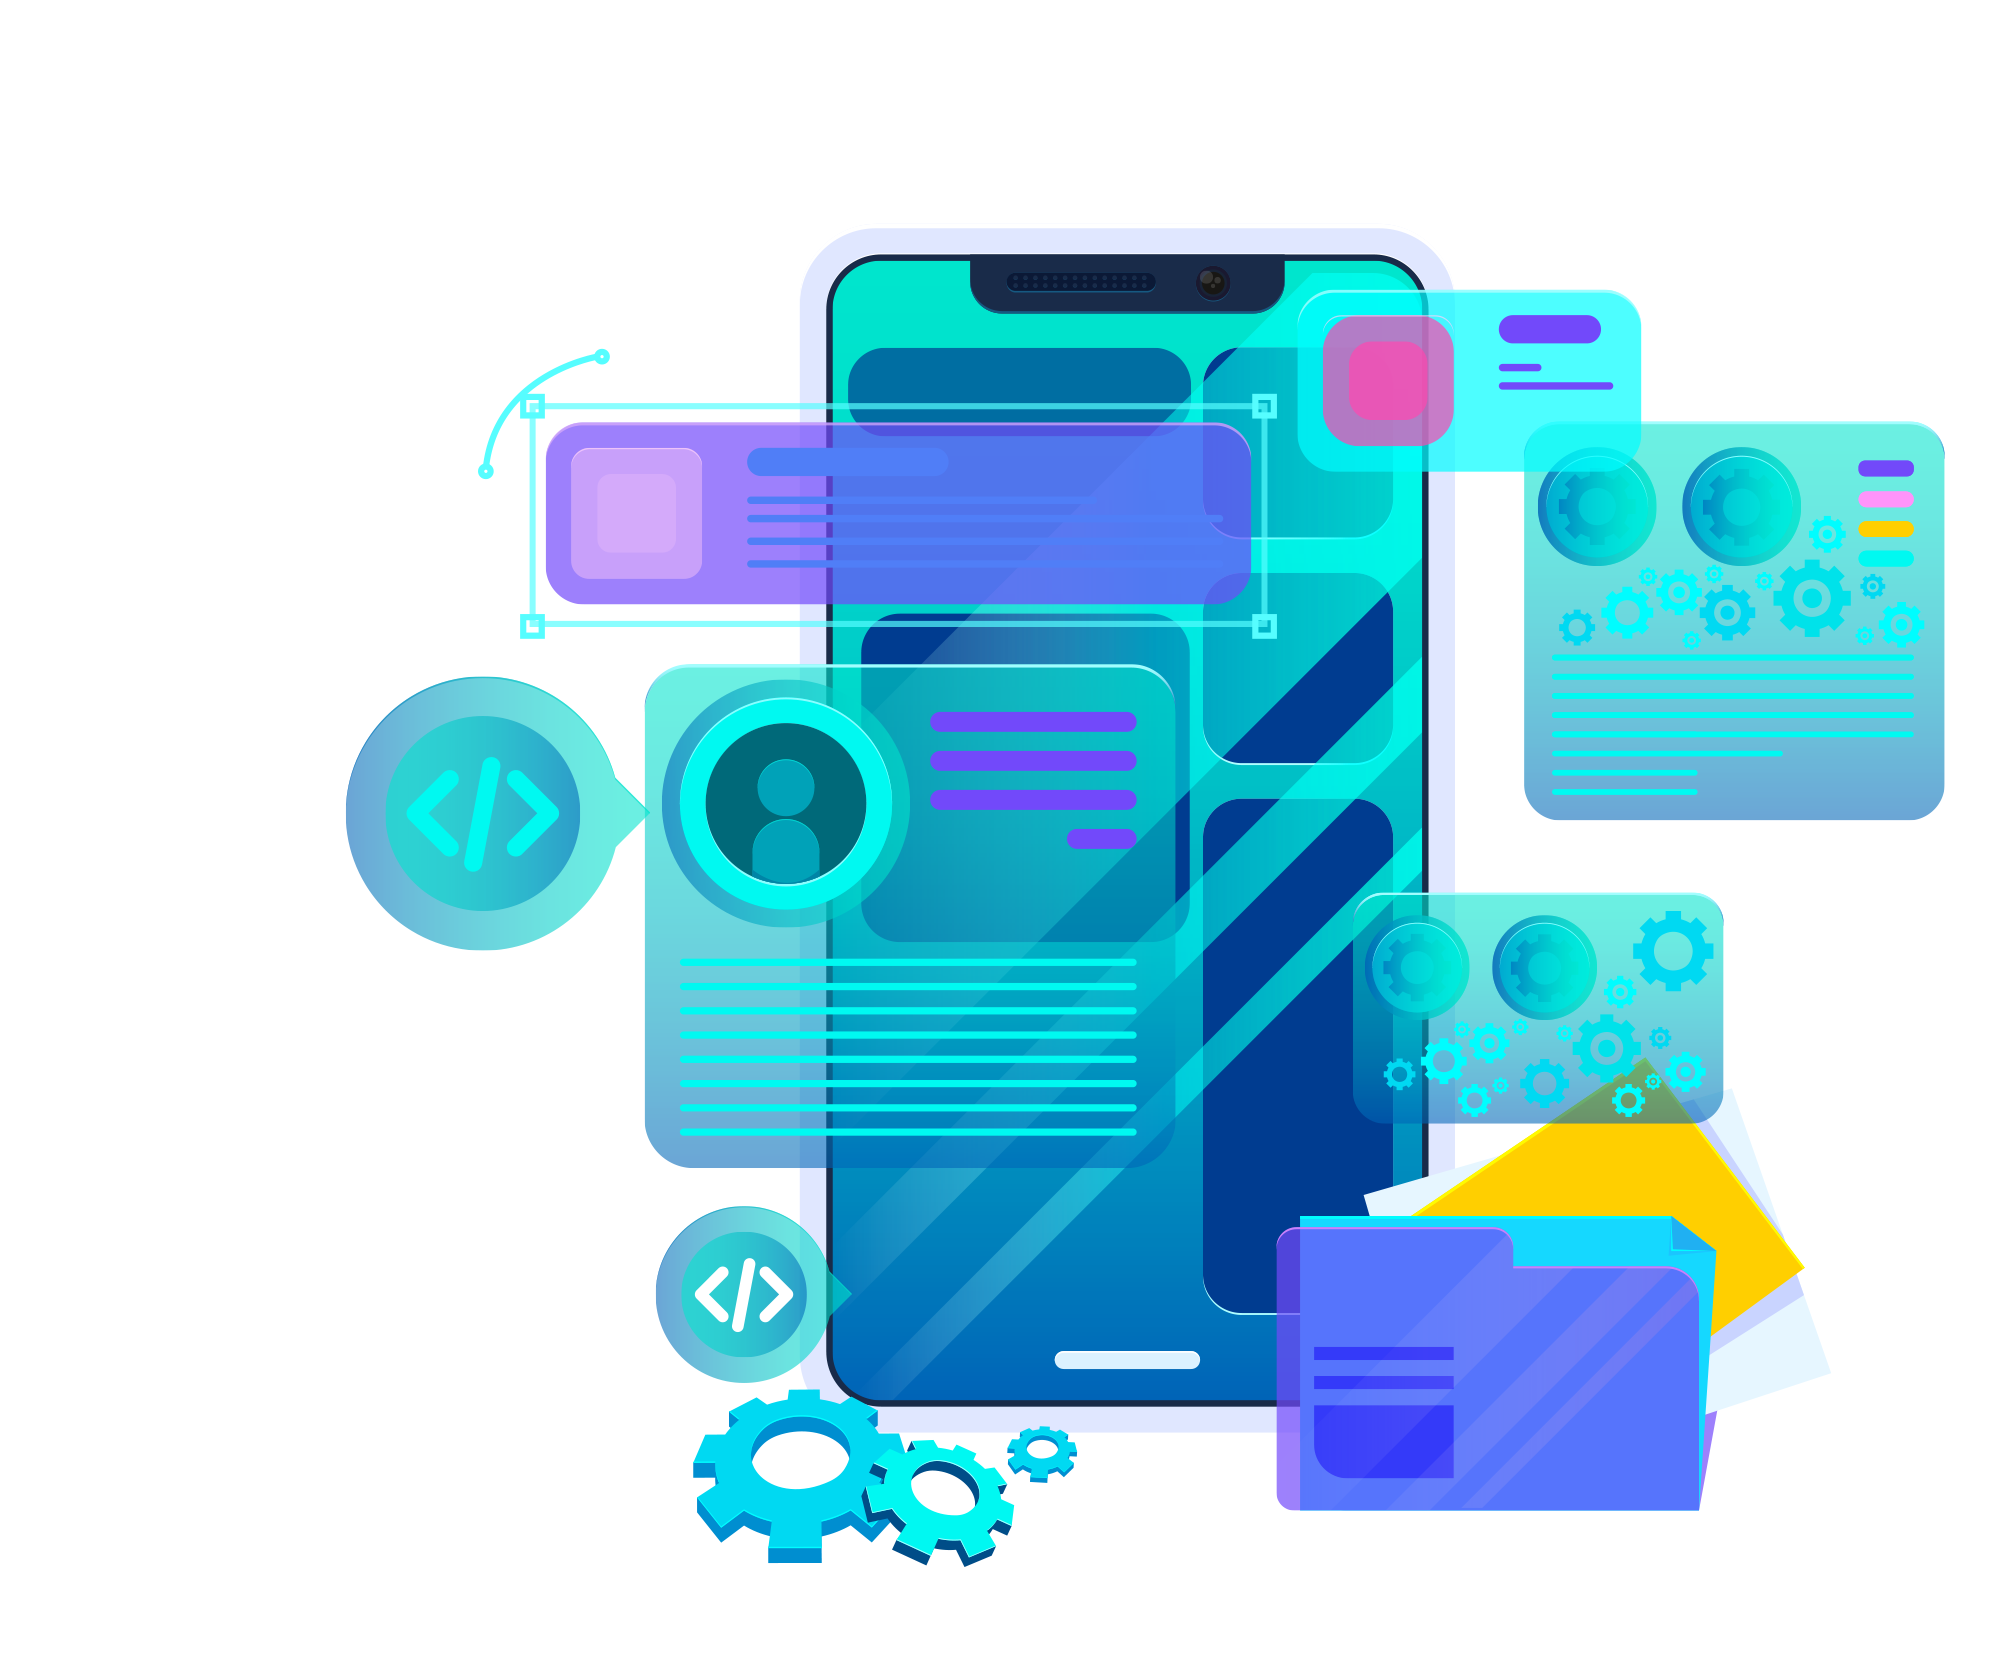
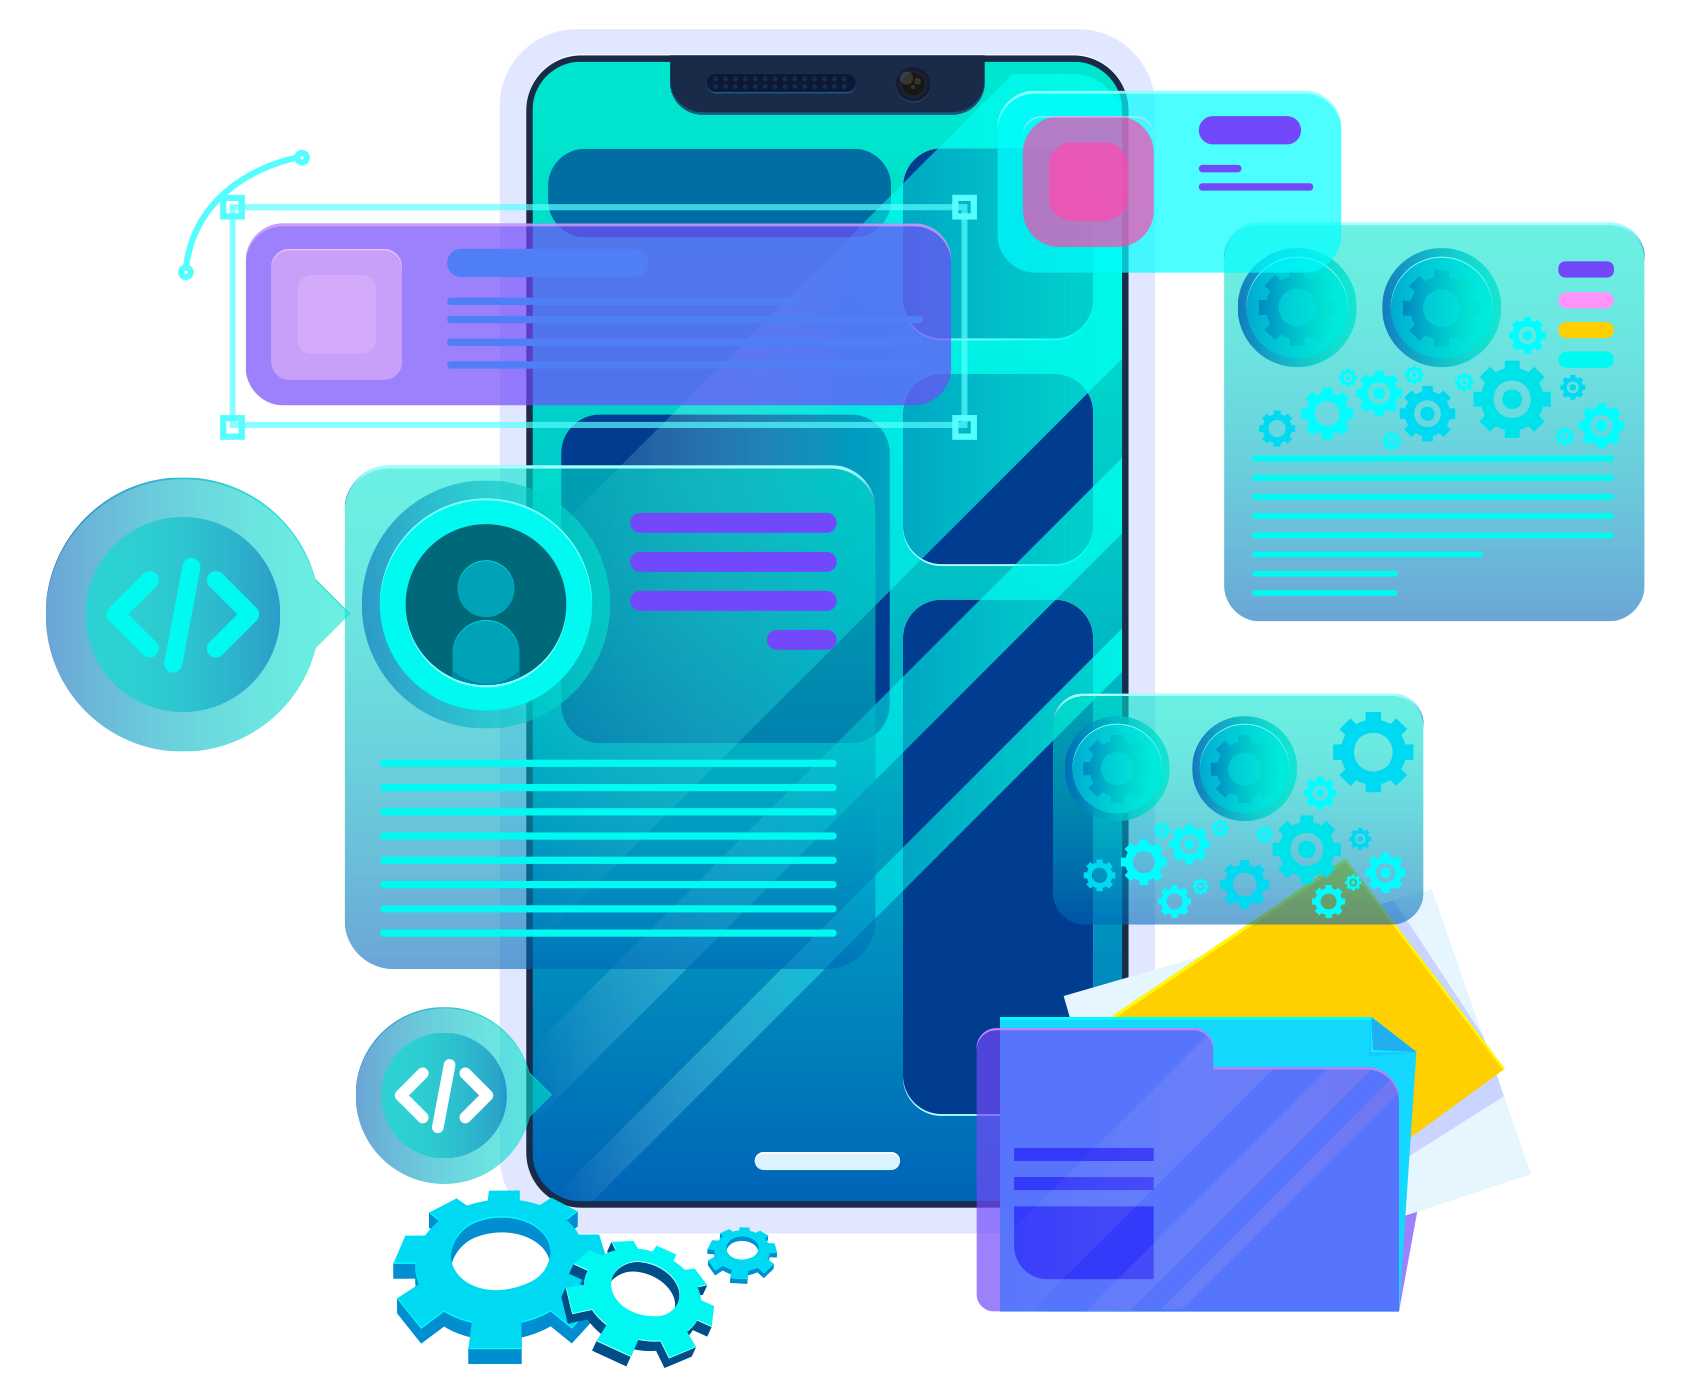
Add files via upload

diff --git a/index.html b/index.html
@@ -50,10 +50,14 @@
             </H1>
         
             <p>
-                Lorem ipsum, dolor sit amet consectetur adipisicing elit. Repellendus rem eos aliquid quo rerum
-                temporibus ipsum distinctio numquam ut omnis placeat, nam sint atque quos dolorem laborum? Rerum, esse
-                dolorem.
+                I'm Abdelrahman Yasser – a graphic designer and Android developer. I love turning creative ideas into user-friendly designs and bringing them to life in the Android world. Let's build something awesome together!
+
             </p>
+            <div class="socials2">
+                <a href="https://www.facebook.com/abdellrahman.yasser.94/" target="_blank"><i class="ri-facebook-line"></i></a>
+                <a href="https://www.linkedin.com/in/vbdoyasser/" target="_blank"><i class="ri-linkedin-line"></i></a>
+                <a href="https://github.com/AbdoYasser74 "target="_blank"><i class="ri-github-line"></i></a>
+            </div>
             <a href ="images/CV.pdf"Download class="btn">Download CV</a>
         </div>
         <div class="image">
@@ -176,9 +180,9 @@
                 Lorem ipsum dolor sit amet consectetur adipisicing elit.
             </p>
             <div class="socials">
-                <a href="#"><i class="ri-youtube-line"></i></a>
-                <a href="#"><i class="ri-instagram-line"></i></a>
-                <a href="#"><i class="ri-twitter-line"></i></a>
+                <a href="https://www.facebook.com/abdellrahman.yasser.94/" target="_blank"><i class="ri-facebook-line"></i></a>
+                <a href="https://www.linkedin.com/in/vbdoyasser/" target="_blank"><i class="ri-linkedin-line"></i></a>
+                <a href="https://github.com/AbdoYasser74 "target="_blank"><i class="ri-github-line"></i></a>
             </div>
         </div>
         <div class="column">

diff --git a/style.css b/style.css
@@ -64,6 +64,28 @@ nav{
 .link a:hover::after{
     width: 70%;
 }
+.socials2{
+    display: flex;
+    align-items: center;
+    gap: 1rem;
+    margin-bottom: 3rem;
+}
+
+.socials2 a{
+    color: #ccc;
+    border: 1px solid #ccc;
+    padding: 5px 10px;
+    font-size: 1.25rem;
+    border-radius: 100%;
+    transition: all 0.3s ease;
+}
+
+.socials2 a:hover{
+    color: #fff;
+    background-image:linear-gradient(90deg, #0ea5ea, #0bd1d1);
+    
+    border-color: #0bd1d1;
+}
 
 .btn{
     padding: 1rem 2rem;
@@ -134,8 +156,8 @@ header .image{
 
 
 header .image img{
-    max-width: 600px;
-    margin: auto;
+    max-width: 500px;
+    
 }
 
 section .header{
